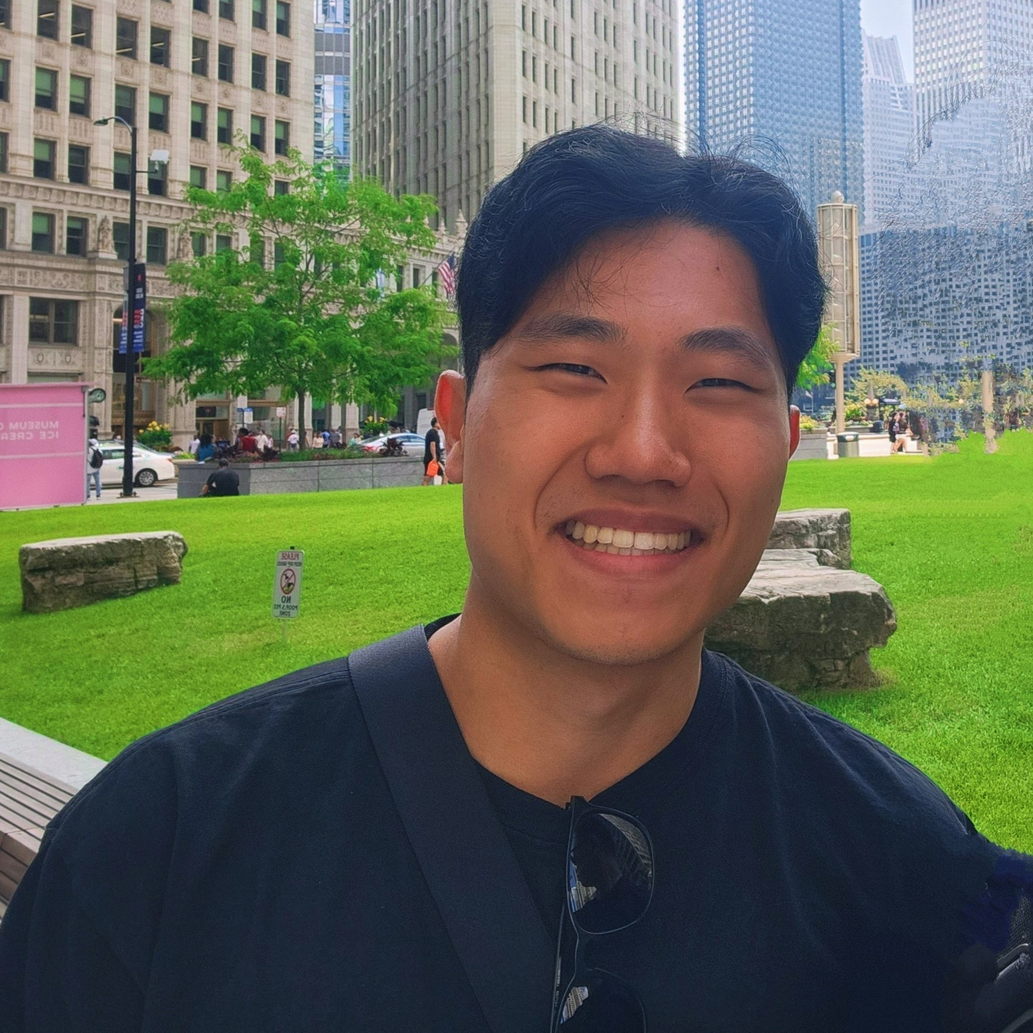
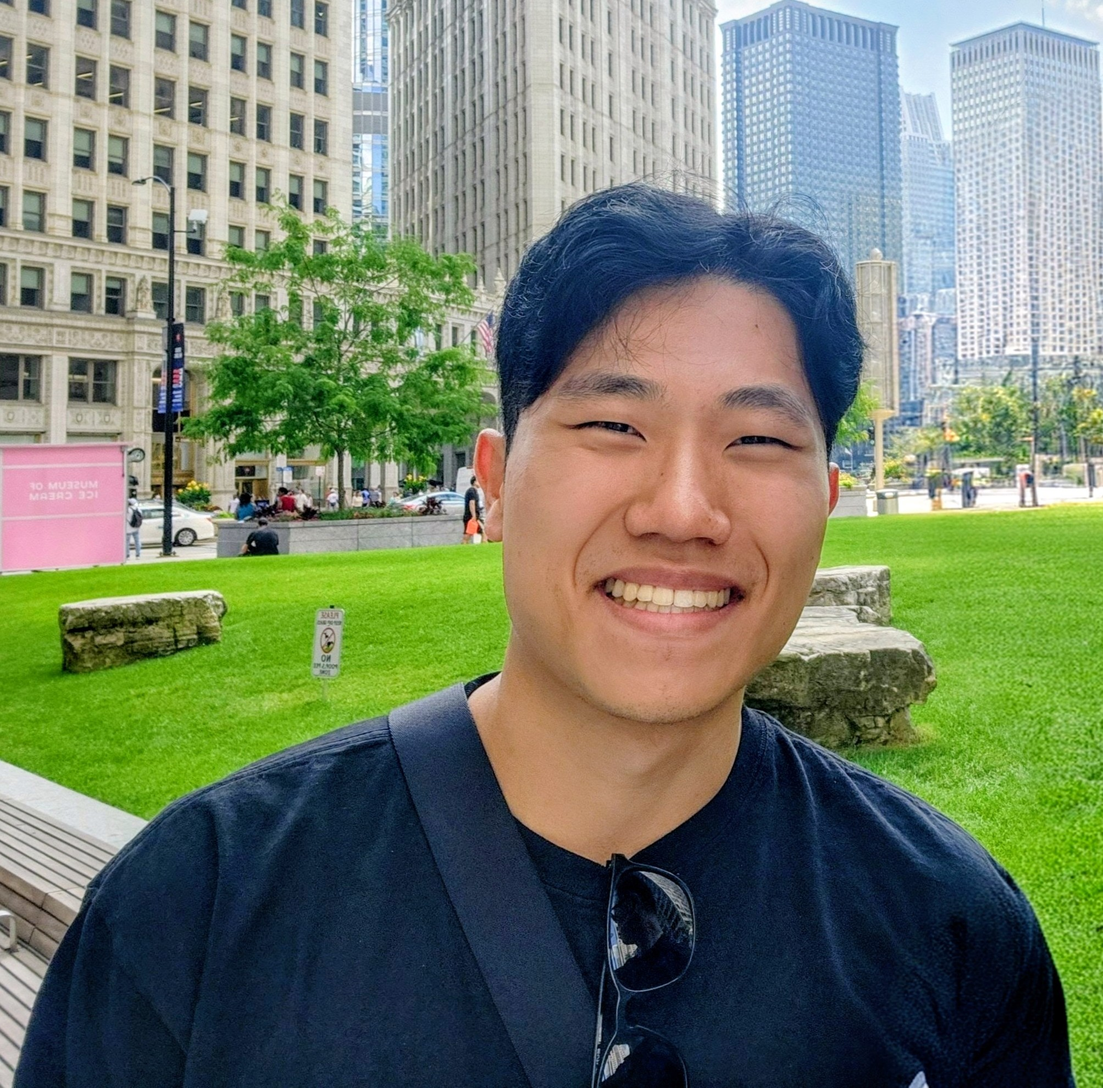
update

diff --git a/index.html b/index.html
@@ -15,13 +15,15 @@
 
 <body class="bg-stone-50 text-stone-800 min-h-screen">
 
+    <!--
     <nav class="max-w-3xl mx-auto flex items-center px-6 py-6">
         <div class="flex gap-6">
-        <!-- <a href="index.html" class="hover:text-amber-700 transition-colors" aria-current="page">Home</a> -->
-        <!-- <a href="coursework.html" class="hover:text-amber-700 transition-colors">Coursework</a> -->
-        <!-- <a href="blog.html" class="hover:text-amber-700 transition-colors">Blog</a> -->
+        <a href="index.html" class="hover:text-amber-700 transition-colors" aria-current="page">Home</a>
+        <a href="coursework.html" class="hover:text-amber-700 transition-colors">Coursework</a>
+        <a href="blog.html" class="hover:text-amber-700 transition-colors">Blog</a>
         </div>
     </nav>
+    -->
 
     <main class="max-w-3xl mx-auto px-6 space-y-16 pb-24">
 
@@ -30,7 +32,7 @@
         <img
             src="jaewoo.jpg"
             alt="Jae Woo Song"
-            class="w-40 h-40 rounded-full object-cover shadow-md shrink-0"
+            class="w-40 h-40 rounded-xl object-cover shadow-md shrink-0"
         >
         <div>
             <h1 class="text-4xl font-bold leading-tight">Jae Woo Song</h1>
@@ -40,10 +42,13 @@
             <p class="mt-3 text-stone-800 leading-relaxed">
             Email: song347{at}wisc.edu 
             </p>
-            <p class="text-stone-800 leading-relaxed">
-                Github: 
-                <a href="https://github.com/jwsong118" class="hover:text-amber-700 transition-colors">
-                    <i class="fab fa-github"></i>
+            <p class="text-blue-900 leading-relaxed">
+                <a href="https://github.com/jwsong118" class="hover:text-amber-700 hover:underline transition-colors mr-2">
+                    Github: <i class="fab fa-github"></i>
+                </a>
+                | 
+                <a href="coursework.html" class="hover:text-amber-700 hover:underline transition-colors ml-2">
+                    Coursework: <i class="fas fa-book"></i>
                 </a>
             </p>
             <p class="mt-3 text-stone-800 leading-relaxed">
@@ -54,7 +59,7 @@
 
         <section class="grid gap-4">
 
-        <!-- COURSEWORK -->
+        <!-- COURSEWORK
         <a href="coursework.html"
             class="group flex justify-between items-center p-6 bg-white rounded-2xl border border-stone-200 hover:border-amber-700 hover:shadow-md transition-all">
             <div>
@@ -63,6 +68,7 @@
             </div>
             <span class="text-amber-700 group-hover:translate-x-1 transition-transform">&rarr;</span>
         </a>
+        -->
 
         <!-- BLOG
         <a href="blog.html"
